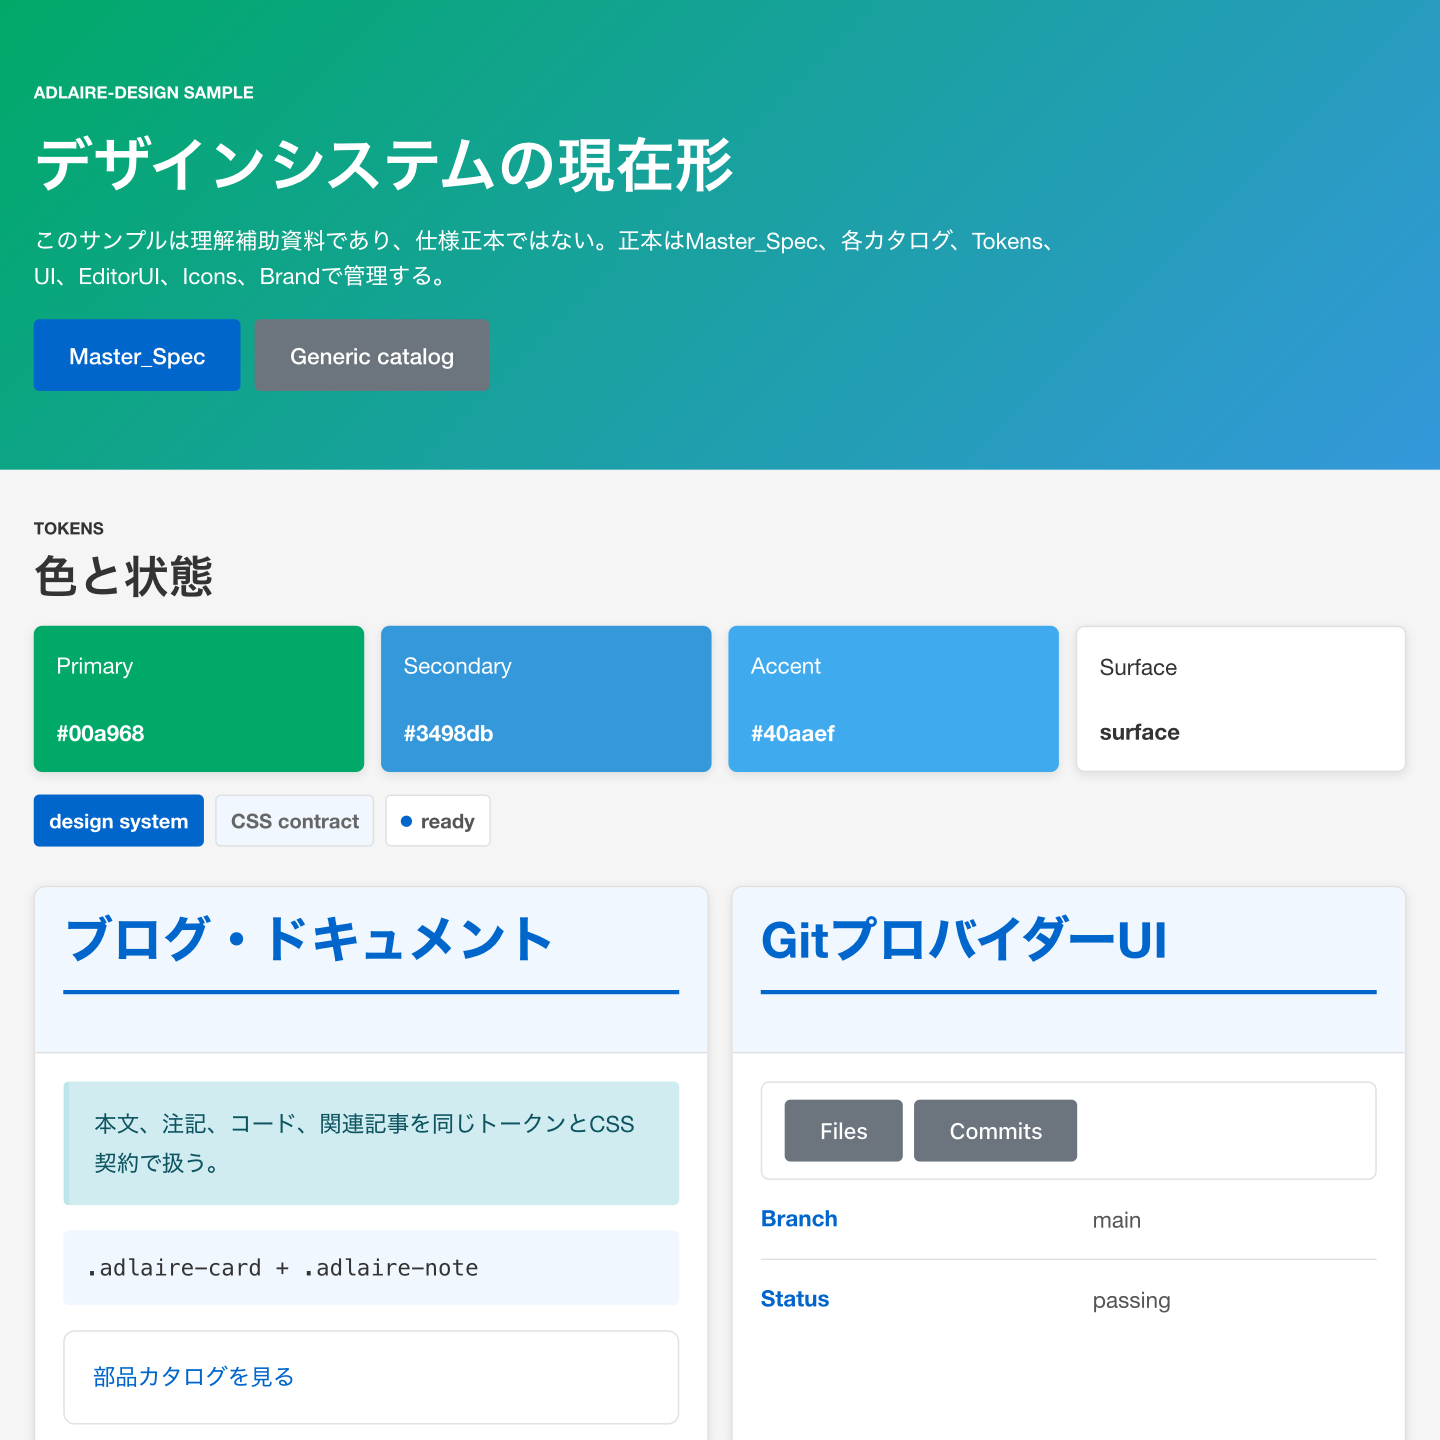
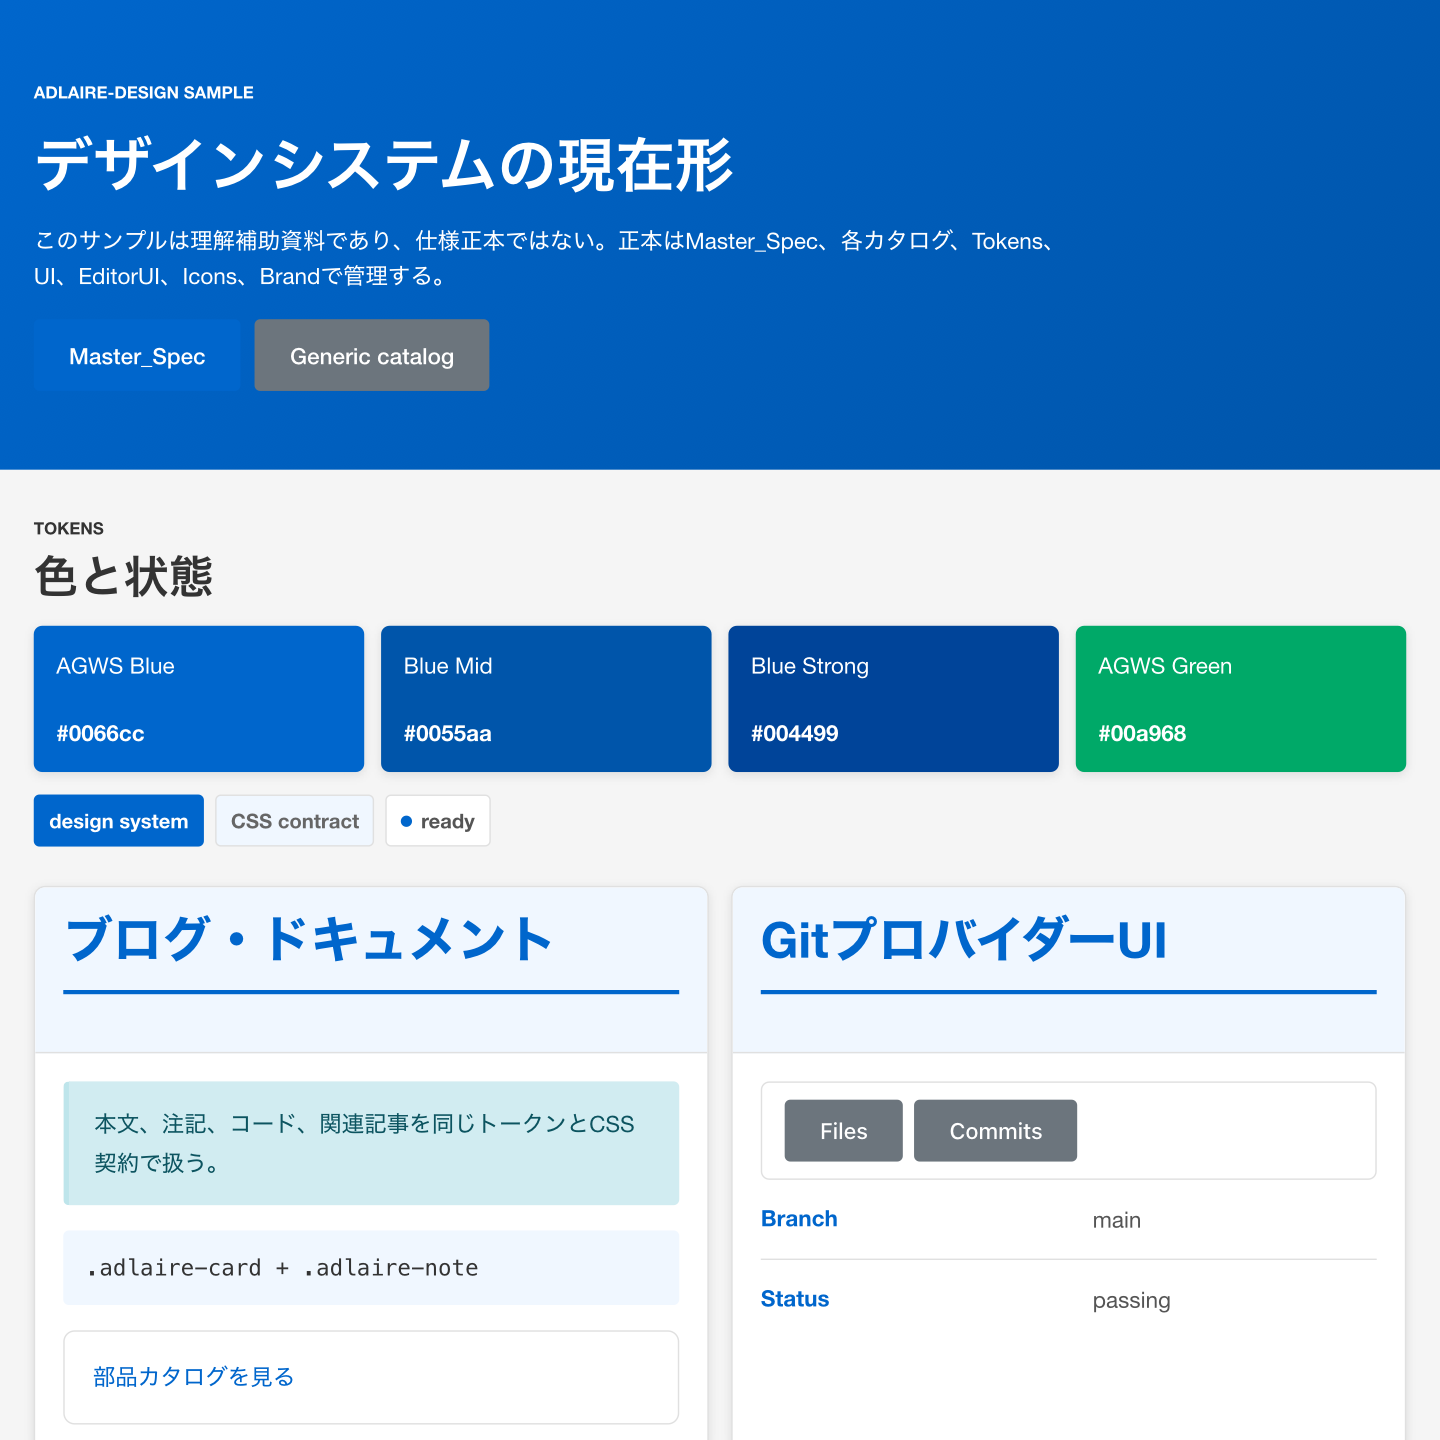
Define AGWS brand color families

diff --git a/Samples/design/index.html b/Samples/design/index.html
@@ -39,10 +39,10 @@
         <h2 id="tokens-title">色と状態</h2>
       </div>
       <div class="sample-swatch-grid">
-        <div class="sample-swatch sample-swatch-primary"><span>Primary</span><strong>#00a968</strong></div>
-        <div class="sample-swatch sample-swatch-secondary"><span>Secondary</span><strong>#3498db</strong></div>
-        <div class="sample-swatch sample-swatch-accent"><span>Accent</span><strong>#40aaef</strong></div>
-        <div class="sample-swatch sample-swatch-surface"><span>Surface</span><strong>surface</strong></div>
+        <div class="sample-swatch sample-swatch-primary"><span>AGWS Blue</span><strong>#0066cc</strong></div>
+        <div class="sample-swatch sample-swatch-secondary"><span>Blue Mid</span><strong>#0055aa</strong></div>
+        <div class="sample-swatch sample-swatch-accent"><span>Blue Strong</span><strong>#004499</strong></div>
+        <div class="sample-swatch sample-swatch-green"><span>AGWS Green</span><strong>#00a968</strong></div>
       </div>
       <div class="adlaire-chip-list">
         <span class="adlaire-chip adlaire-chip-primary">design system</span>

diff --git a/Tokens/colors.css b/Tokens/colors.css
@@ -1,9 +1,15 @@
 /* Adlaire-Design color tokens */
 :root {
-  --adlaire-color-primary: #00a968;
-  --adlaire-color-secondary: #3498db;
-  --adlaire-color-accent: #40aaef;
-  --adlaire-color-surface: #ecf0f1;
-  --adlaire-color-border: #eceef1;
-  --adlaire-color-support: #58be89;
+  --adlaire-color-agws-blue-primary: #0066cc;
+  --adlaire-color-agws-blue-secondary: #0055aa;
+  --adlaire-color-agws-blue-accent: #004499;
+  --adlaire-color-agws-green-primary: #00a968;
+  --adlaire-color-agws-green-secondary: #58be89;
+  --adlaire-color-agws-green-accent: #40aaef;
+  --adlaire-color-primary: var(--adlaire-color-agws-blue-primary);
+  --adlaire-color-secondary: var(--adlaire-color-agws-blue-secondary);
+  --adlaire-color-accent: var(--adlaire-color-agws-blue-accent);
+  --adlaire-color-surface: #f5f5f5;
+  --adlaire-color-border: #e0e0e0;
+  --adlaire-color-support: var(--adlaire-color-agws-green-primary);
 }

diff --git a/Samples/design/sample.css b/Samples/design/sample.css
@@ -99,6 +99,11 @@ body {
   color: #ffffff;
 }
 
+.sample-swatch-green {
+  background: var(--adlaire-color-agws-green-primary);
+  color: #ffffff;
+}
+
 .sample-swatch-surface {
   background: var(--adlaire-surface-card);
   color: var(--adlaire-surface-text);
